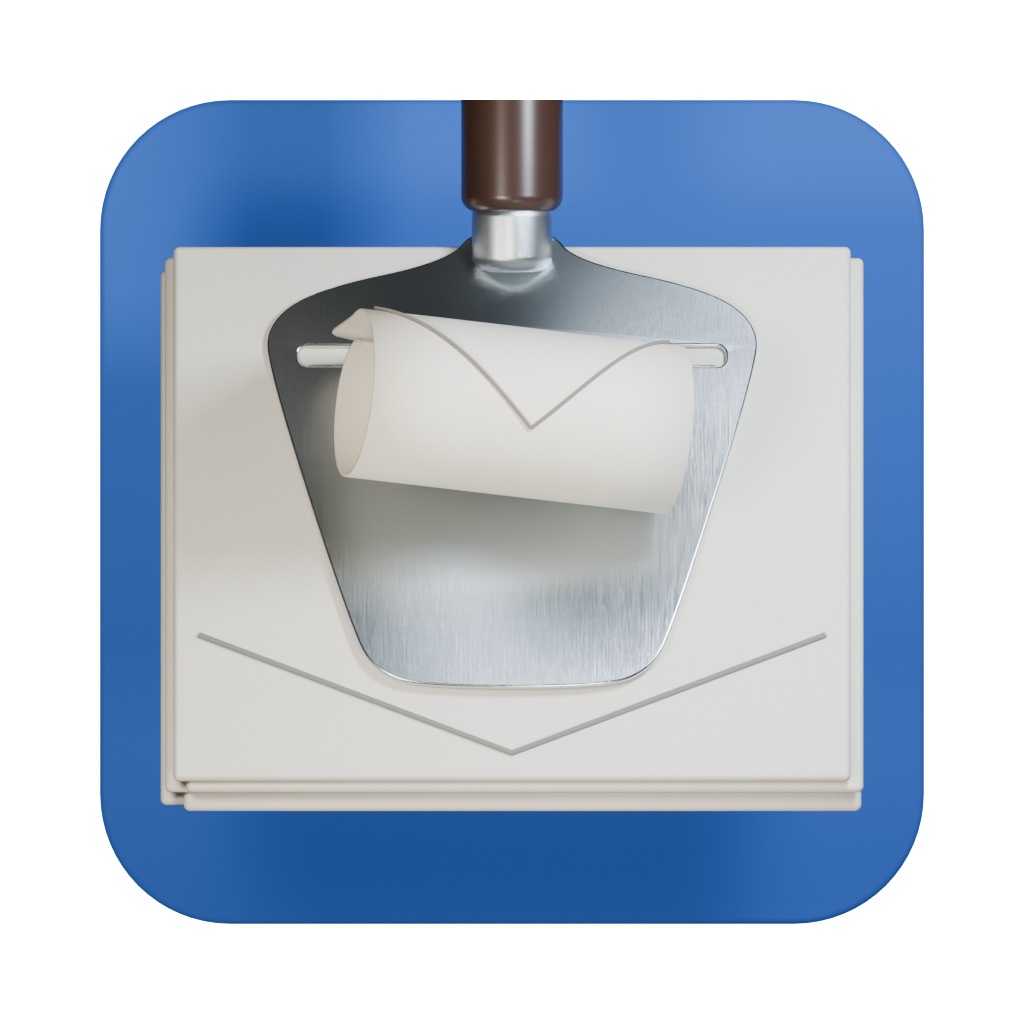
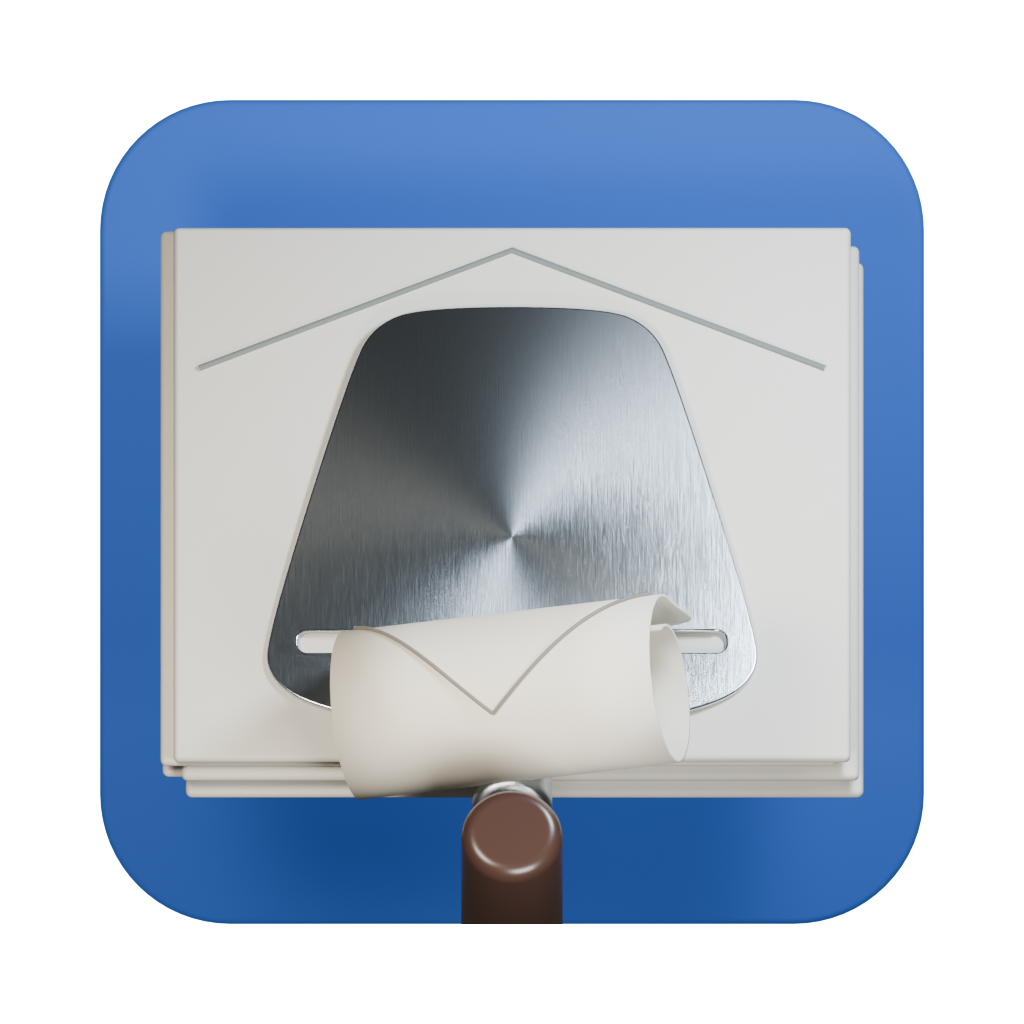
Reverse slicer orientation in stacked envelope concepts
Claude-Session: https://claude.ai/code/session_013SQgeHioqiMB6p9JPGMZRn

Changed region(s): [[0.1562, 0.0938, 0.8438, 0.9062], [0.75, 0.3438, 0.8125, 0.375]]

diff --git a/brand/app-icon/3d/icon.py b/brand/app-icon/3d/icon.py
@@ -42,6 +42,8 @@ def material(name, color, rough=.4, metal=0, grain=None):
     bs.inputs['Metallic'].default_value = metal
     if metal:
         bs.inputs['Anisotropic'].default_value = .72
+        if take6 and name == 'Brushed stainless':
+            bs.inputs['Tangent'].default_value = (0,1,0)
     if grain and (not take2 or (take3 and name == 'Brushed stainless')):
         coord = n.new('ShaderNodeTexCoord')
         mapping = n.new('ShaderNodeVectorMath')
@@ -192,8 +194,8 @@ line('Polished cutting edge',[(x,.145,.477+(.035*(1-(x/1.16)**2) if take4 else 0
 
 def between(name,a,b,radius,mat):
     if take5:
-        a = (a[0], a[1]-.53, a[2]-.23)
-        b = (b[0], b[1]-.53, b[2]-.23)
+        a = (a[0], a[1]-(.25 if take6 else .53), a[2]-(.12 if take6 else .23))
+        b = (b[0], b[1]-(.25 if take6 else .53), b[2]-(.12 if take6 else .23))
     direction=Vector(b)-Vector(a)
     bpy.ops.mesh.primitive_cylinder_add(vertices=64,radius=radius,depth=direction.length,location=(Vector(a)+Vector(b))/2)
     o=bpy.context.object
@@ -211,8 +213,8 @@ neck_profile=[(.66,.478,.18,.016),(.70,.485,.17,.025),(.76,.50,.145,.045),
 verts=[]
 for y,z,rx,rz in neck_profile:
     if take5 and y > .76:
-        y = .76 + (y-.76)*.10
-        z = .50 + (z-.50)*.15
+        y = .76 + (y-.76)*(.60 if take6 else .10)
+        z = .50 + (z-.50)*(.60 if take6 else .15)
     for j in range(64):
         a=2*math.pi*j/64
         verts.append((rx*math.cos(a),y,z+rz*math.sin(a)))
@@ -236,14 +238,14 @@ def envelope_point(x,t,offset=0):
     if take6:
         angle = 2.25*math.pi*t
         radius = .43-.16*t+offset
-        return (x,-.36+radius*math.cos(angle),.96+radius*math.sin(angle))
+        return (x,.76-radius*math.cos(angle),.96+radius*math.sin(angle))
     return (x, .20-1.42*t, .49+.12*math.sin(math.pi*t)+.13*t**8+offset)
 if take5:
-    profile = ([(.20,.44),(.16,.62),(.11,.80)] if take6 else []) + [envelope_point(0,i/80)[1:] for i in range(81)]
+    profile = ([(.20,.44),(.24,.62),(.29,.80)] if take6 else []) + [envelope_point(0,i/80)[1:] for i in range(81)]
     white.node_tree.nodes.get('Principled BSDF').inputs['Base Color'].default_value = (.93,.87,.73,1)
 v=[(x,y,z) for y,z in profile for x in ((-.78,.78) if take5 else (-.58,.58))]
 strip_faces=[(2*i,2*i+1,2*i+3,2*i+2) for i in range(len(profile)-1)]
-strip=mesh('Single curled letter',v,[tuple(reversed(f)) for f in strip_faces] if take5 and not take6 else strip_faces,white)
+strip=mesh('Single curled letter',v,[tuple(reversed(f)) for f in strip_faces] if take5 else strip_faces,white)
 sub=strip.modifiers.new('Relaxed paper curl','SUBSURF'); sub.levels=2
 solid=strip.modifiers.new('Paper thickness','SOLIDIFY'); solid.thickness=.016 if take5 else .008
 for face in strip.data.polygons: face.use_smooth=True
@@ -277,11 +279,16 @@ if take5:
                [(0,i+1,(i+1)%len(border)+1) for i in range(len(border))],stamp_mat)
     for face in stamp.data.polygons: face.use_smooth=True
 if take6:
-    pivot = Vector((0,-.36,.96))
+    pivot = Vector((0,.76,.96))
     transform = Matrix.Translation(pivot) @ Matrix.Rotation(math.radians(15),4,'Y') @ Matrix.Translation(-pivot)
     for obj in scene.objects:
         if obj.name.startswith(('Single curled letter','Letter V fold')):
             obj.matrix_world = transform @ obj.matrix_world
+if take6:
+    # The handle points toward the viewer; the shaved envelope curls toward it.
+    turn = Matrix.Rotation(math.pi,4,'Z')
+    for obj in scene.objects:
+        obj.matrix_world = turn @ obj.matrix_world
 subject=list(scene.objects)
 
 # Orthographic camera and broad softboxes: no external textures or environment maps.
@@ -362,7 +369,7 @@ if take2:
             links.new(gradient.outputs[0], bs.inputs['Emission Color'])
             bs.inputs['Emission Strength'].default_value = .65
             ink.node_tree.nodes.get('Principled BSDF').inputs['Base Color'].default_value = (.065,.065,.065,1)
-        frames = [(v,1.55,(0,-.70,.65)) for v in 'ABCD'] if take6 else [('1',2.18,(0,-.35,.65)),('2',2.18,(0,-.35,.65))] if take4 else [
+        frames = [(v,1.55,(0,.40,.65)) for v in 'ABCD'] if take6 else [('1',2.18,(0,-.35,.65)),('2',2.18,(0,-.35,.65))] if take4 else [
             ('1', 2.65, (0,-.12,.68)),
             ('2', 4.0, (0,-.02,.93)),
             ('3', 2.65, (0,-.12,.68))]
